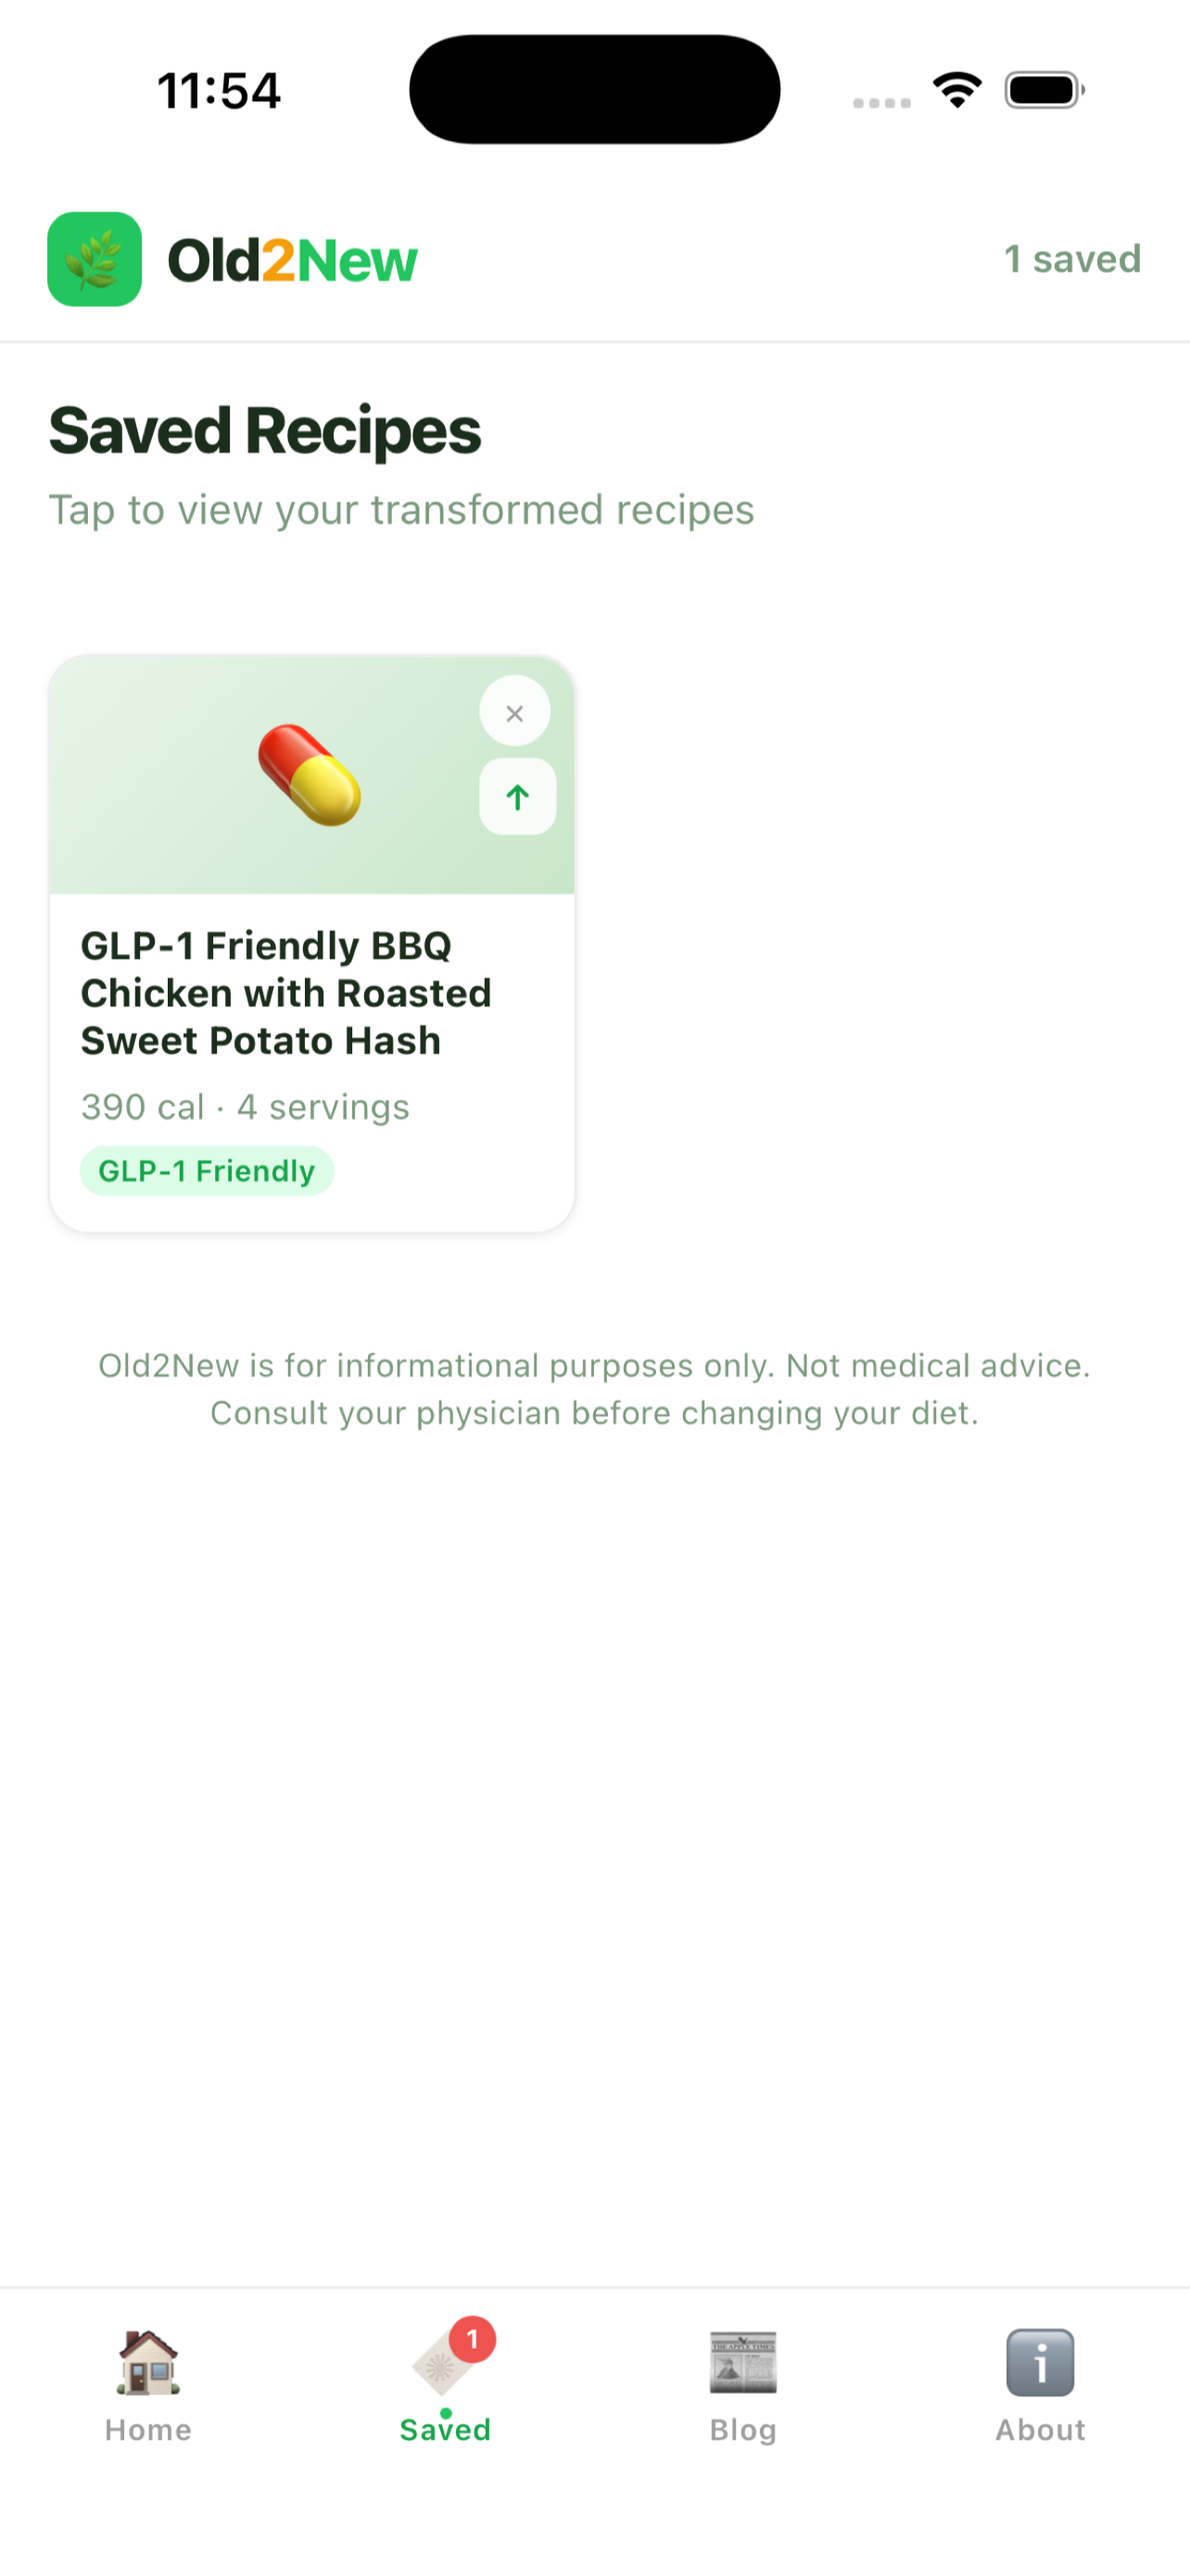
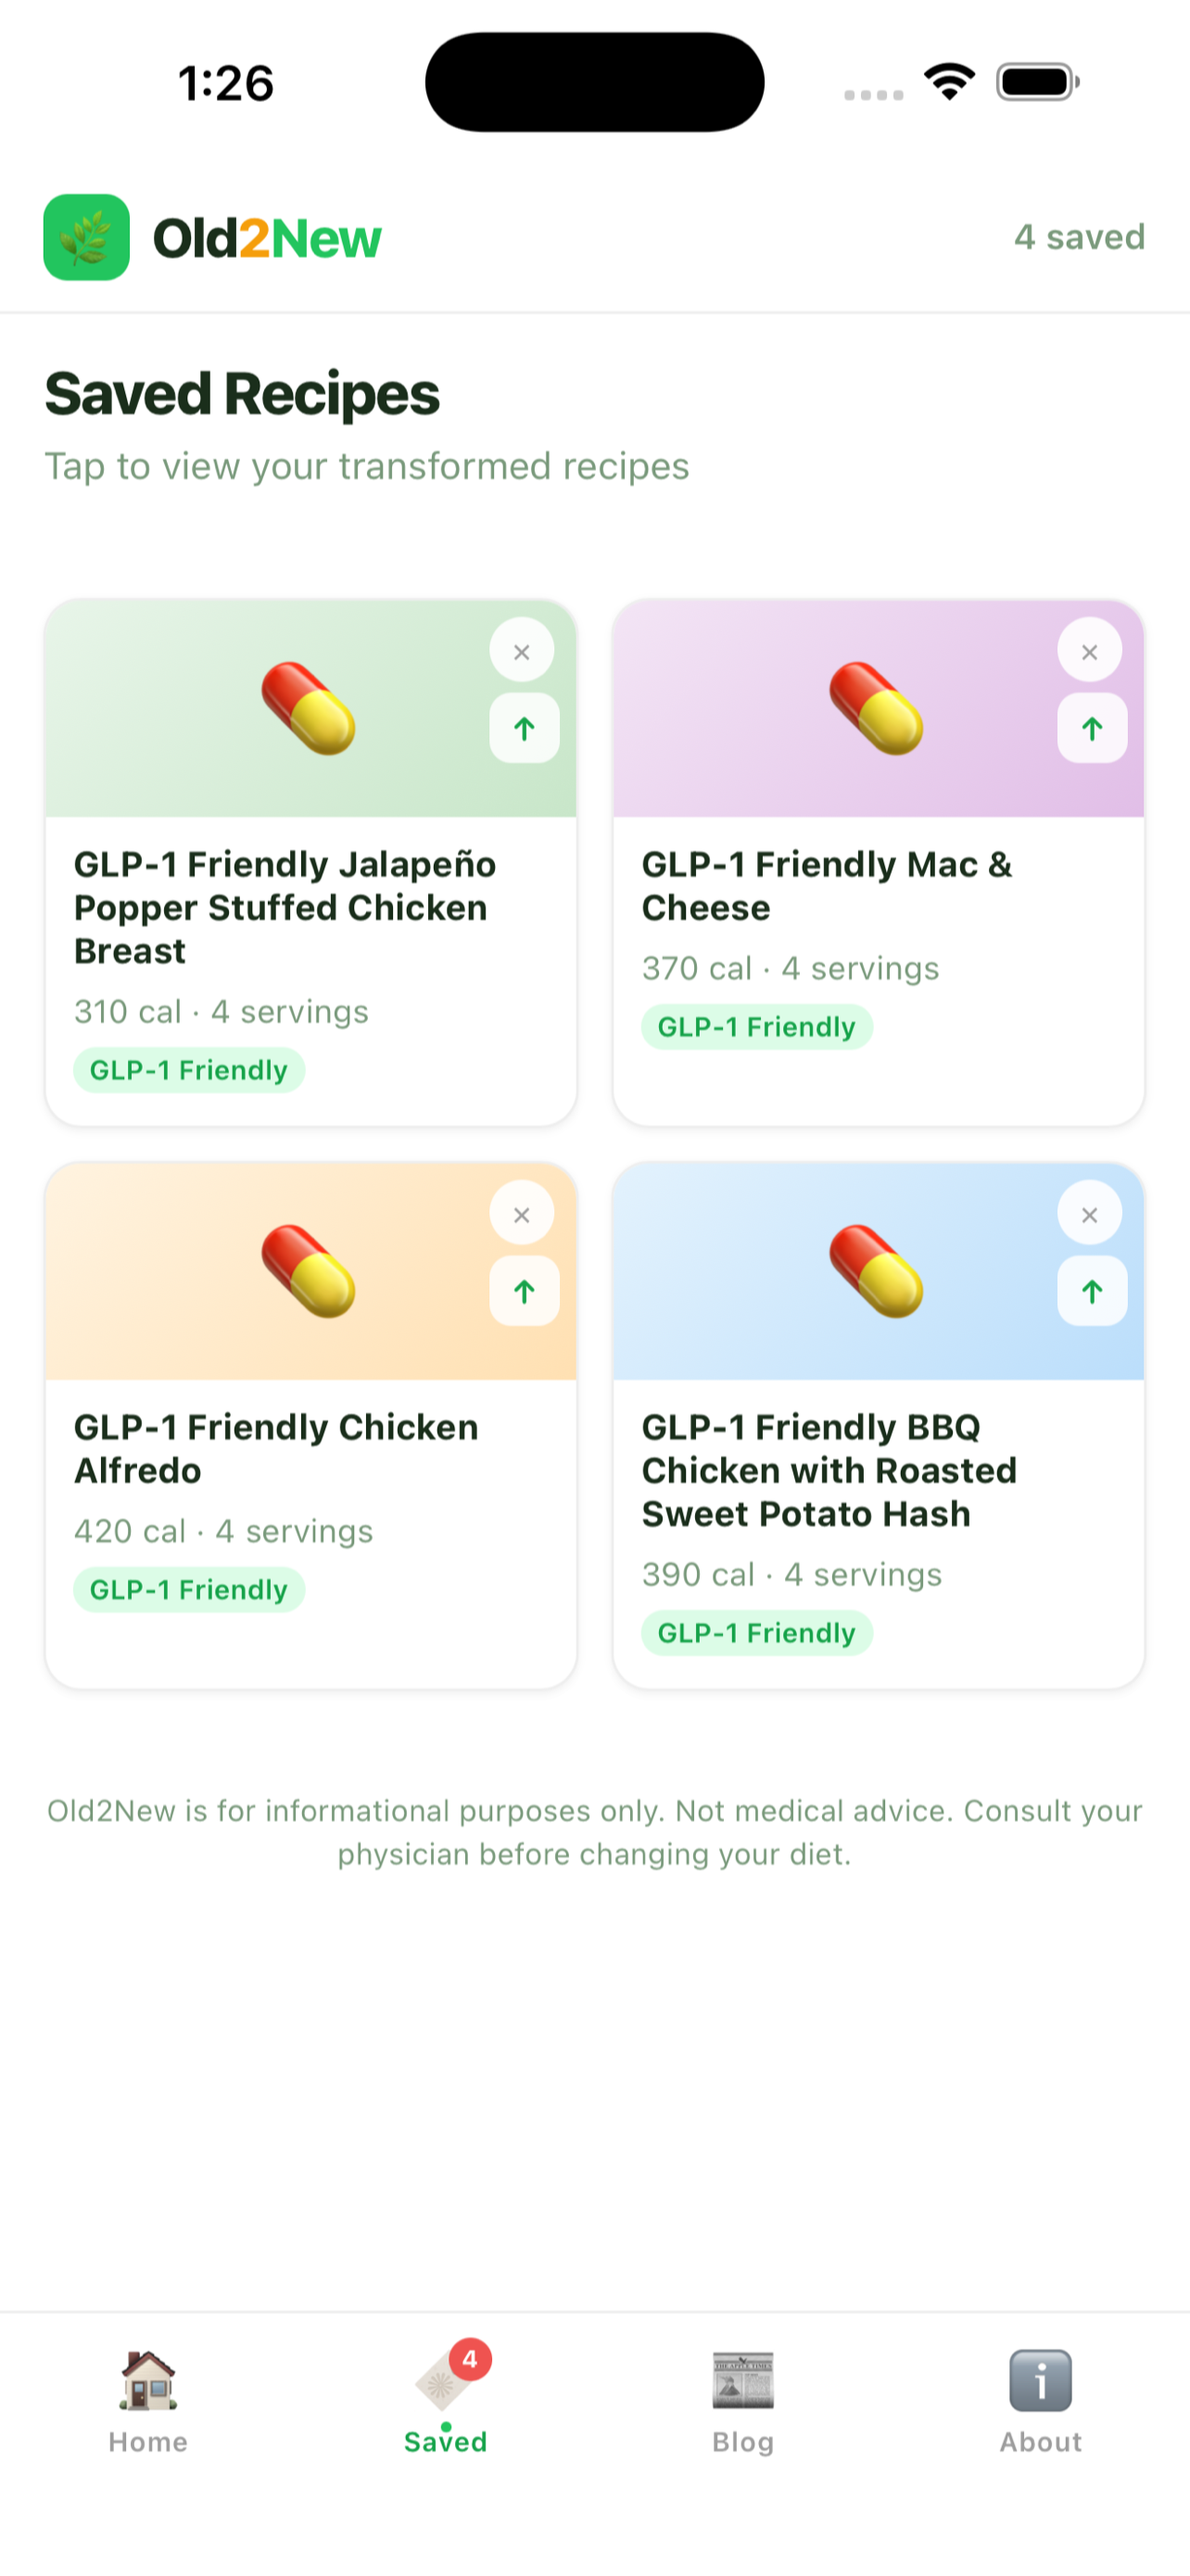
Final App Store screenshot set (6.9 and 6.5 inch) and upload order
Claude-Session: https://claude.ai/code/session_01AXND5y6gLHZxkbfuQd24B1

diff --git a/docs/app-store-connect-checklist.md b/docs/app-store-connect-checklist.md
@@ -60,19 +60,19 @@ phone or Mac (👤). Version 1.0 (build 1), bundle ID `app.old2new.ios`, team
 **What's New**
 > First release.
 
-**Screenshots** — required: 6.9" iPhone (1320×2868); ASC scales these for
-smaller iPhones. Captured in `docs/app-store/` (all 1320×2868):
+**Screenshots** — captured natively on the iPhone 17 Pro Max simulator
+(6.9", 1320×2868) with the 6.5" set (1284×2778) derived by uniform scaling
+plus a 6 px top/bottom trim; all opaque PNGs. Files in `docs/app-store/`
+(`iphone-6.9-*` and `iphone-6.5-*` share the same numbering):
 
-| Order | File | Notes |
+| Upload order | File suffix | Screen |
 |---|---|---|
-| 1 | `iphone-6.9-01-home.png` | Signed-out home / hero |
-| 2 | `iphone-6.9-02-transform.png` | Transform input with recipe + GLP-1 selected |
-| 3 | `iphone-6.9-03-result.png` | Transformed result: photo, before/after calories |
-| 4 | `iphone-6.9-05-suggest-ideas.png` | "What sounds good?" dinner ideas |
-| 5 | `iphone-6.9-06-suggest-filters.png` | Suggestion filters (optional) |
-| 6 | `iphone-6.9-04-saved.png` | Saved recipes — weakest; retake with 3–4 saved recipes that have photos before using |
-
-Upload order suggestion: 3, 2, 4, 1, 5 (lead with the result).
+| 1 | `03-result` | Transformed result: photo, before/after calories |
+| 2 | `02-transform` | Transform input with recipe + GLP-1 selected |
+| 3 | `05-suggest-ideas` | "What sounds good?" dinner ideas |
+| 4 | `06-suggest-filters` | Suggestion filters |
+| 5 | `04-saved` | Saved recipes grid |
+| 6 | `01-home` | Signed-out home hero (optional) |
 
 ## 4. App Privacy
 
